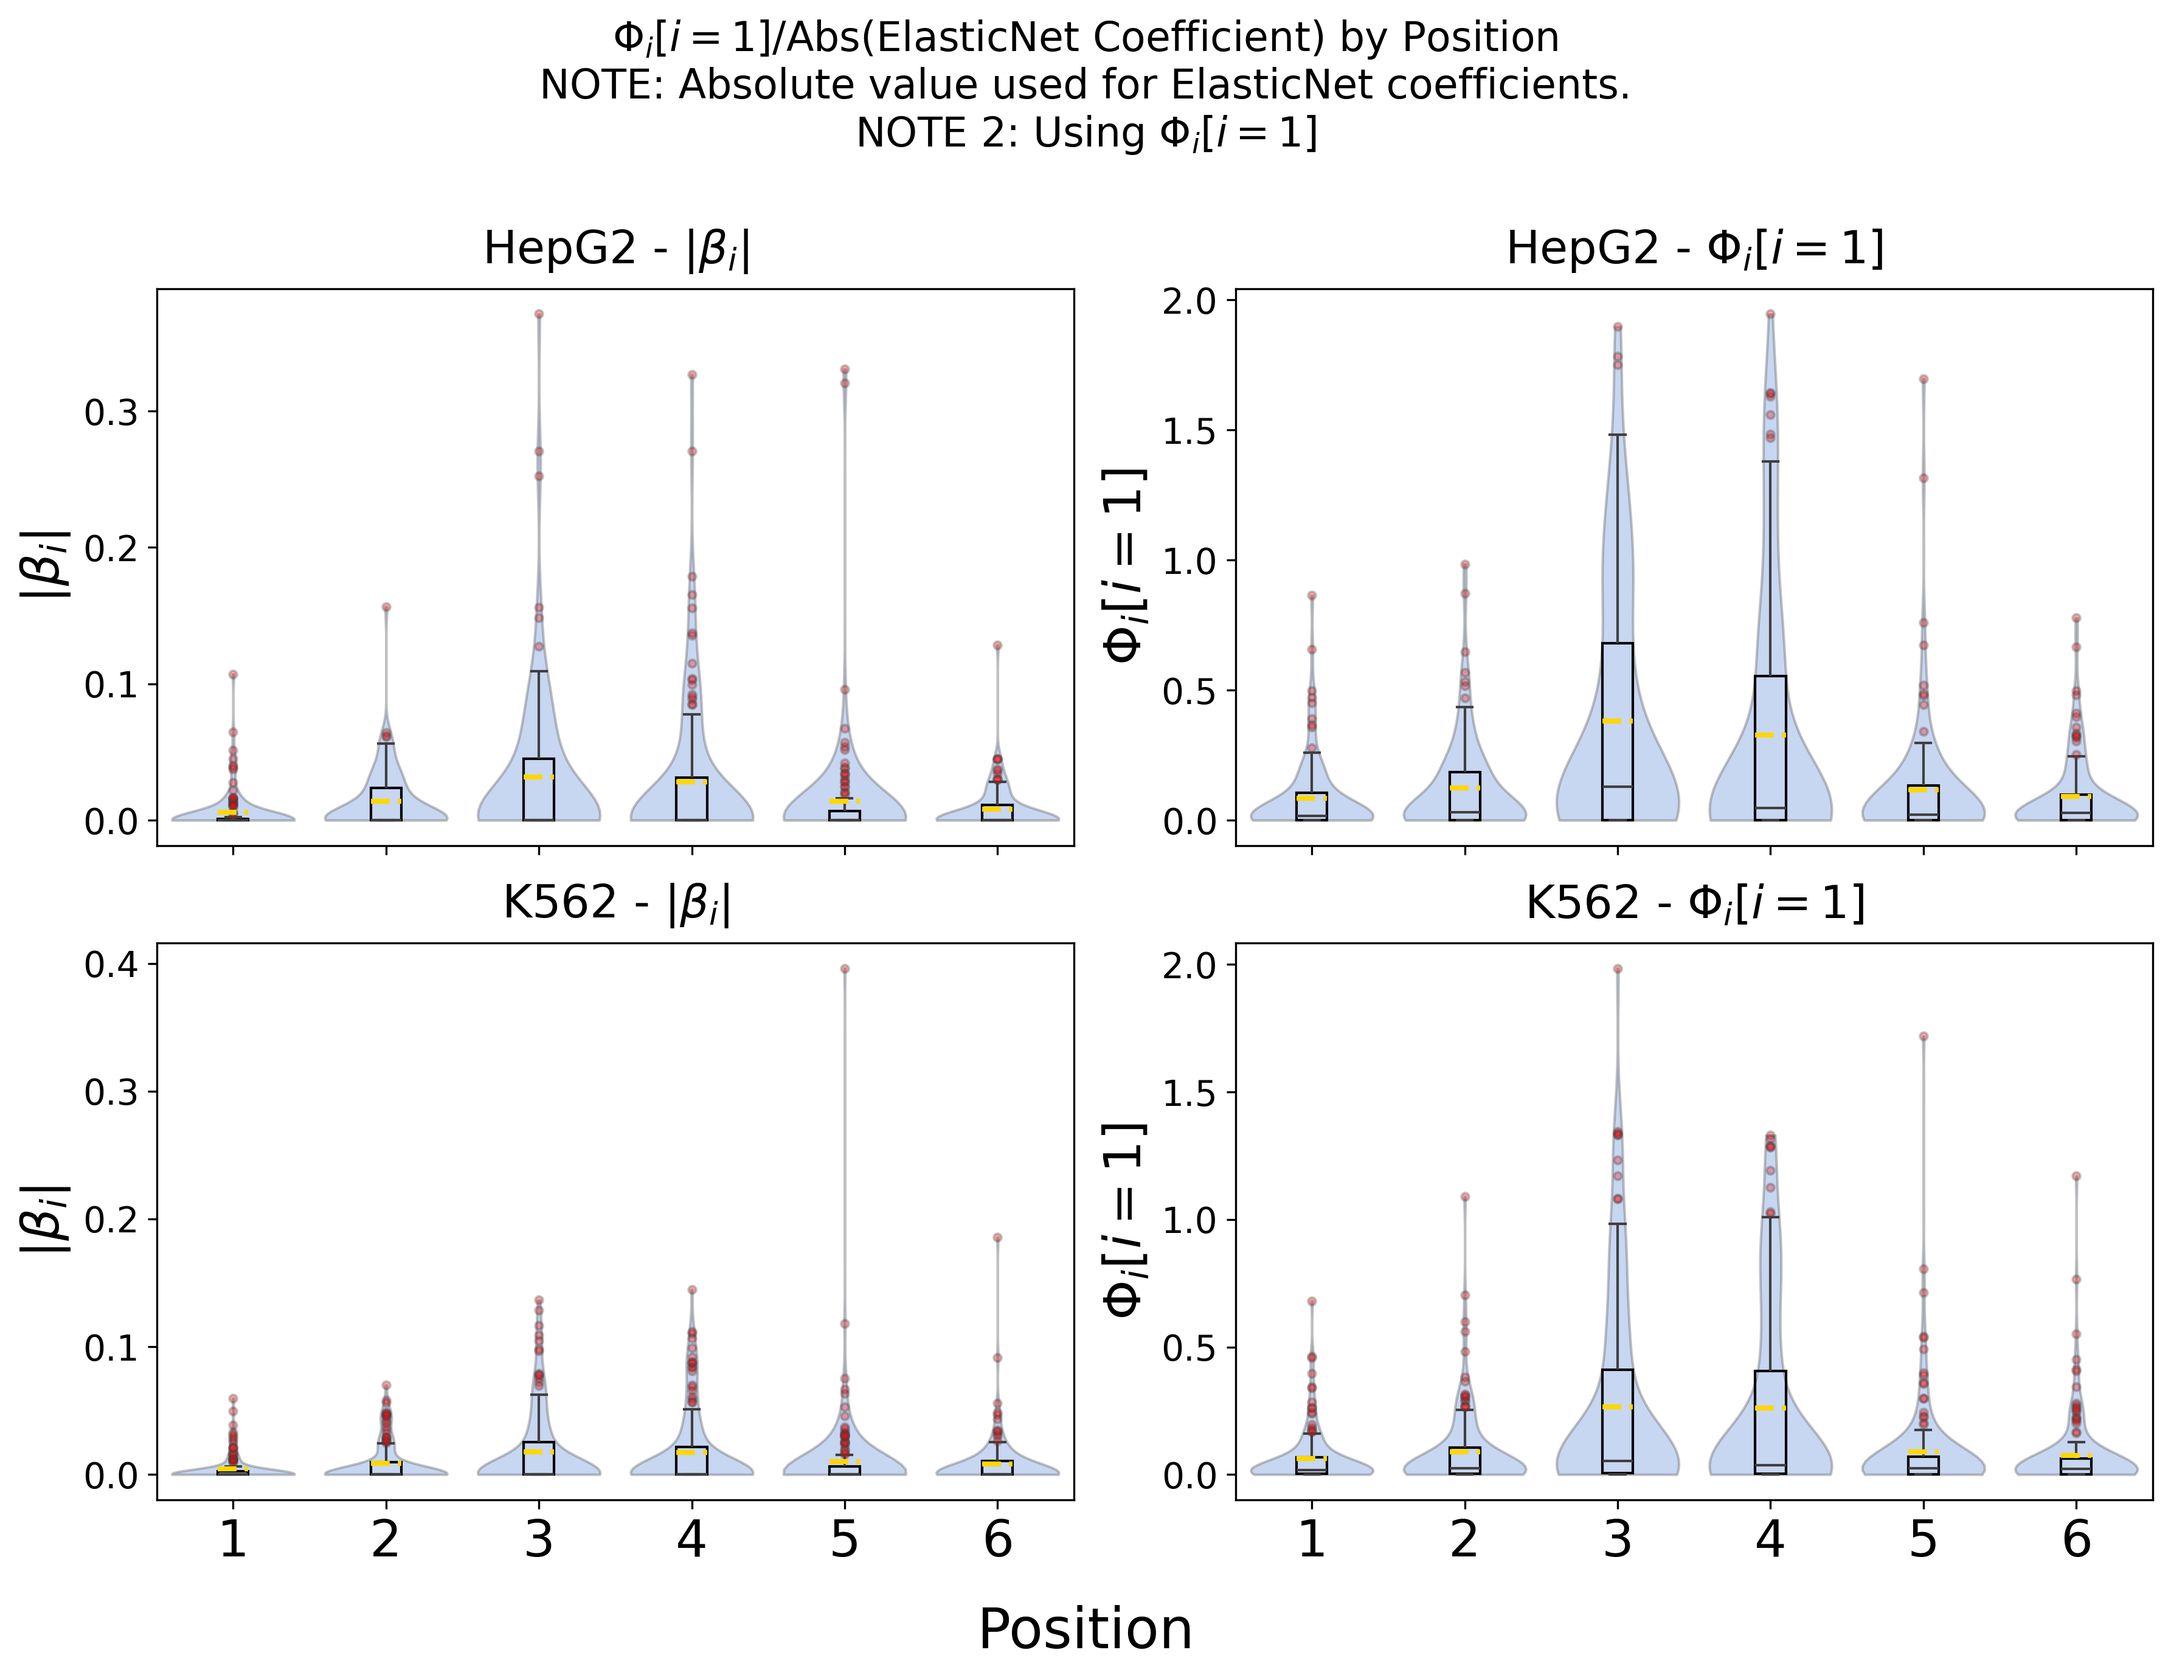
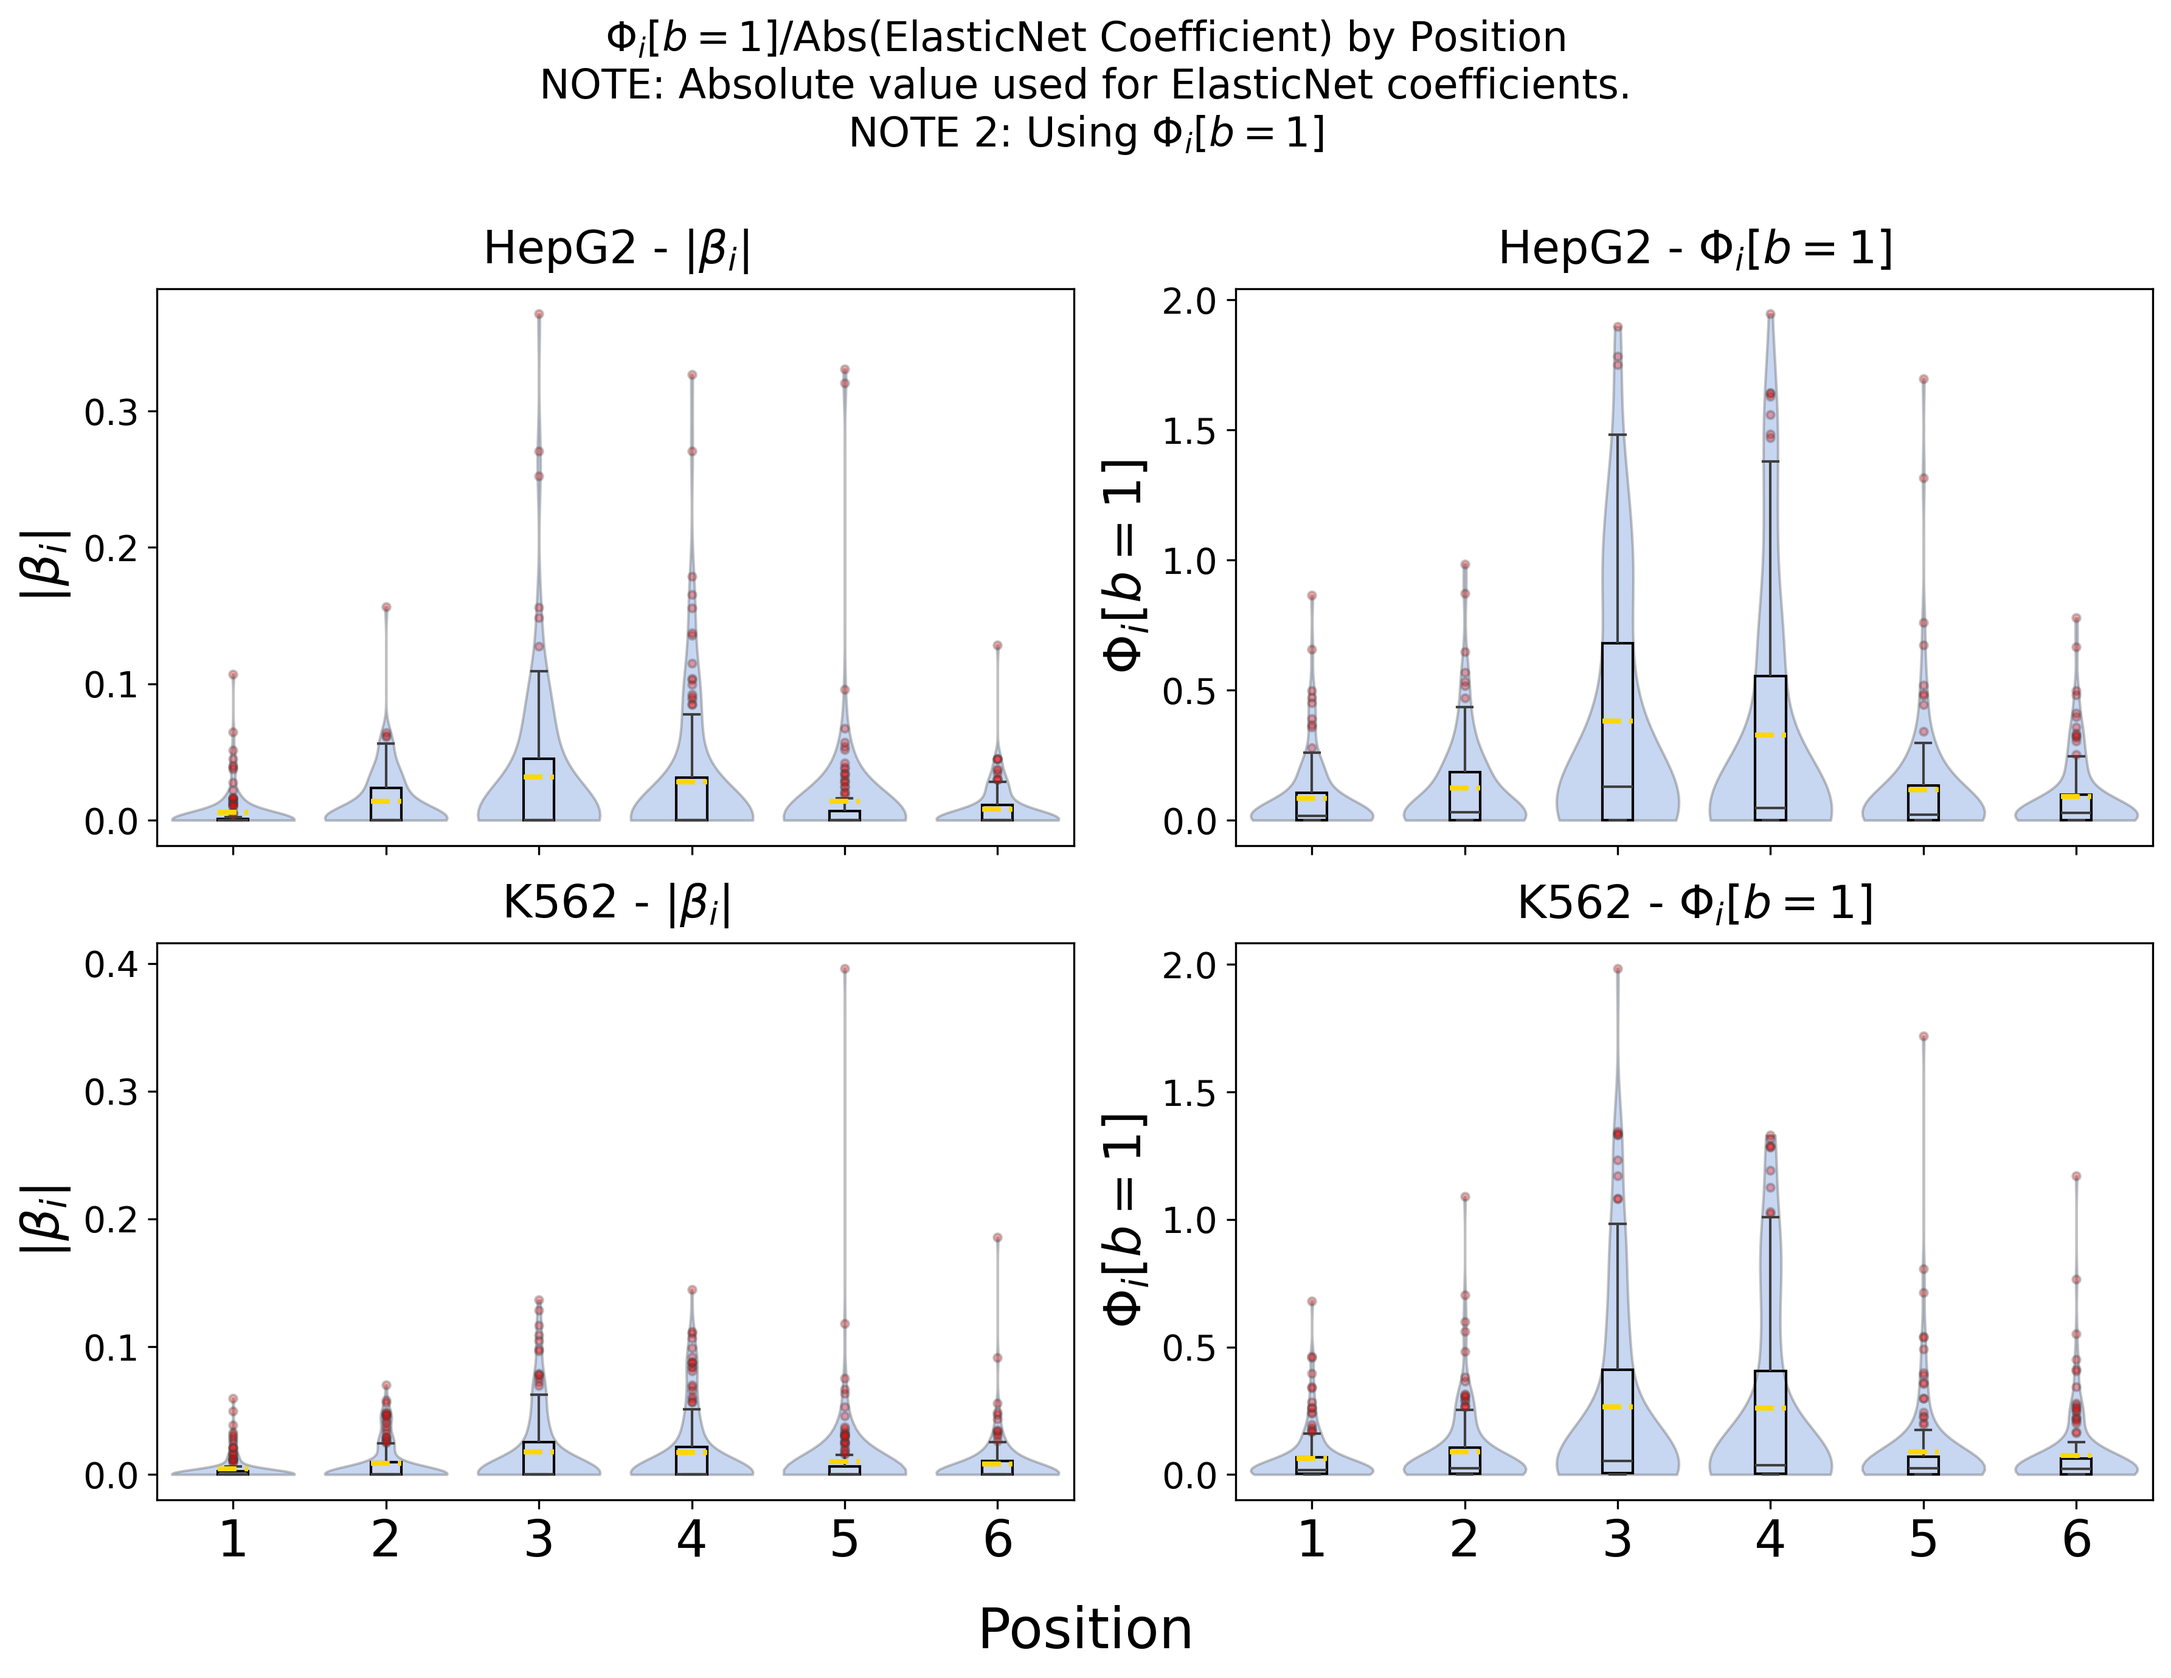
IMPROVEMENT: for bound and unbound global shap, use a different variable than i (in this case, b) to denote the feature being bound or not bound

diff --git a/analysis/6_SHAP_network_analysis/code/1_shap_network_analyzer.py b/analysis/6_SHAP_network_analysis/code/1_shap_network_analyzer.py
@@ -133,8 +133,8 @@ class ShapNetworkInvestigator:
         "Unique-Binding": 
             {
                 "5_dfs_average": r"$\Phi_{i}$", 
-                "Bound-Only": r"$\Phi_{i}[{i}=1]$", 
-                "NOT-Bound-Only": r"$\Phi_{i}[{i}=0]$",
+                "Bound-Only": r"$\Phi_{i}[{b}=1]$", 
+                "NOT-Bound-Only": r"$\Phi_{i}[{b}=0]$",
             },
         "ElasticNet Coefficients": {
             "Absolute Value": r"$|\beta_{i}|$",
